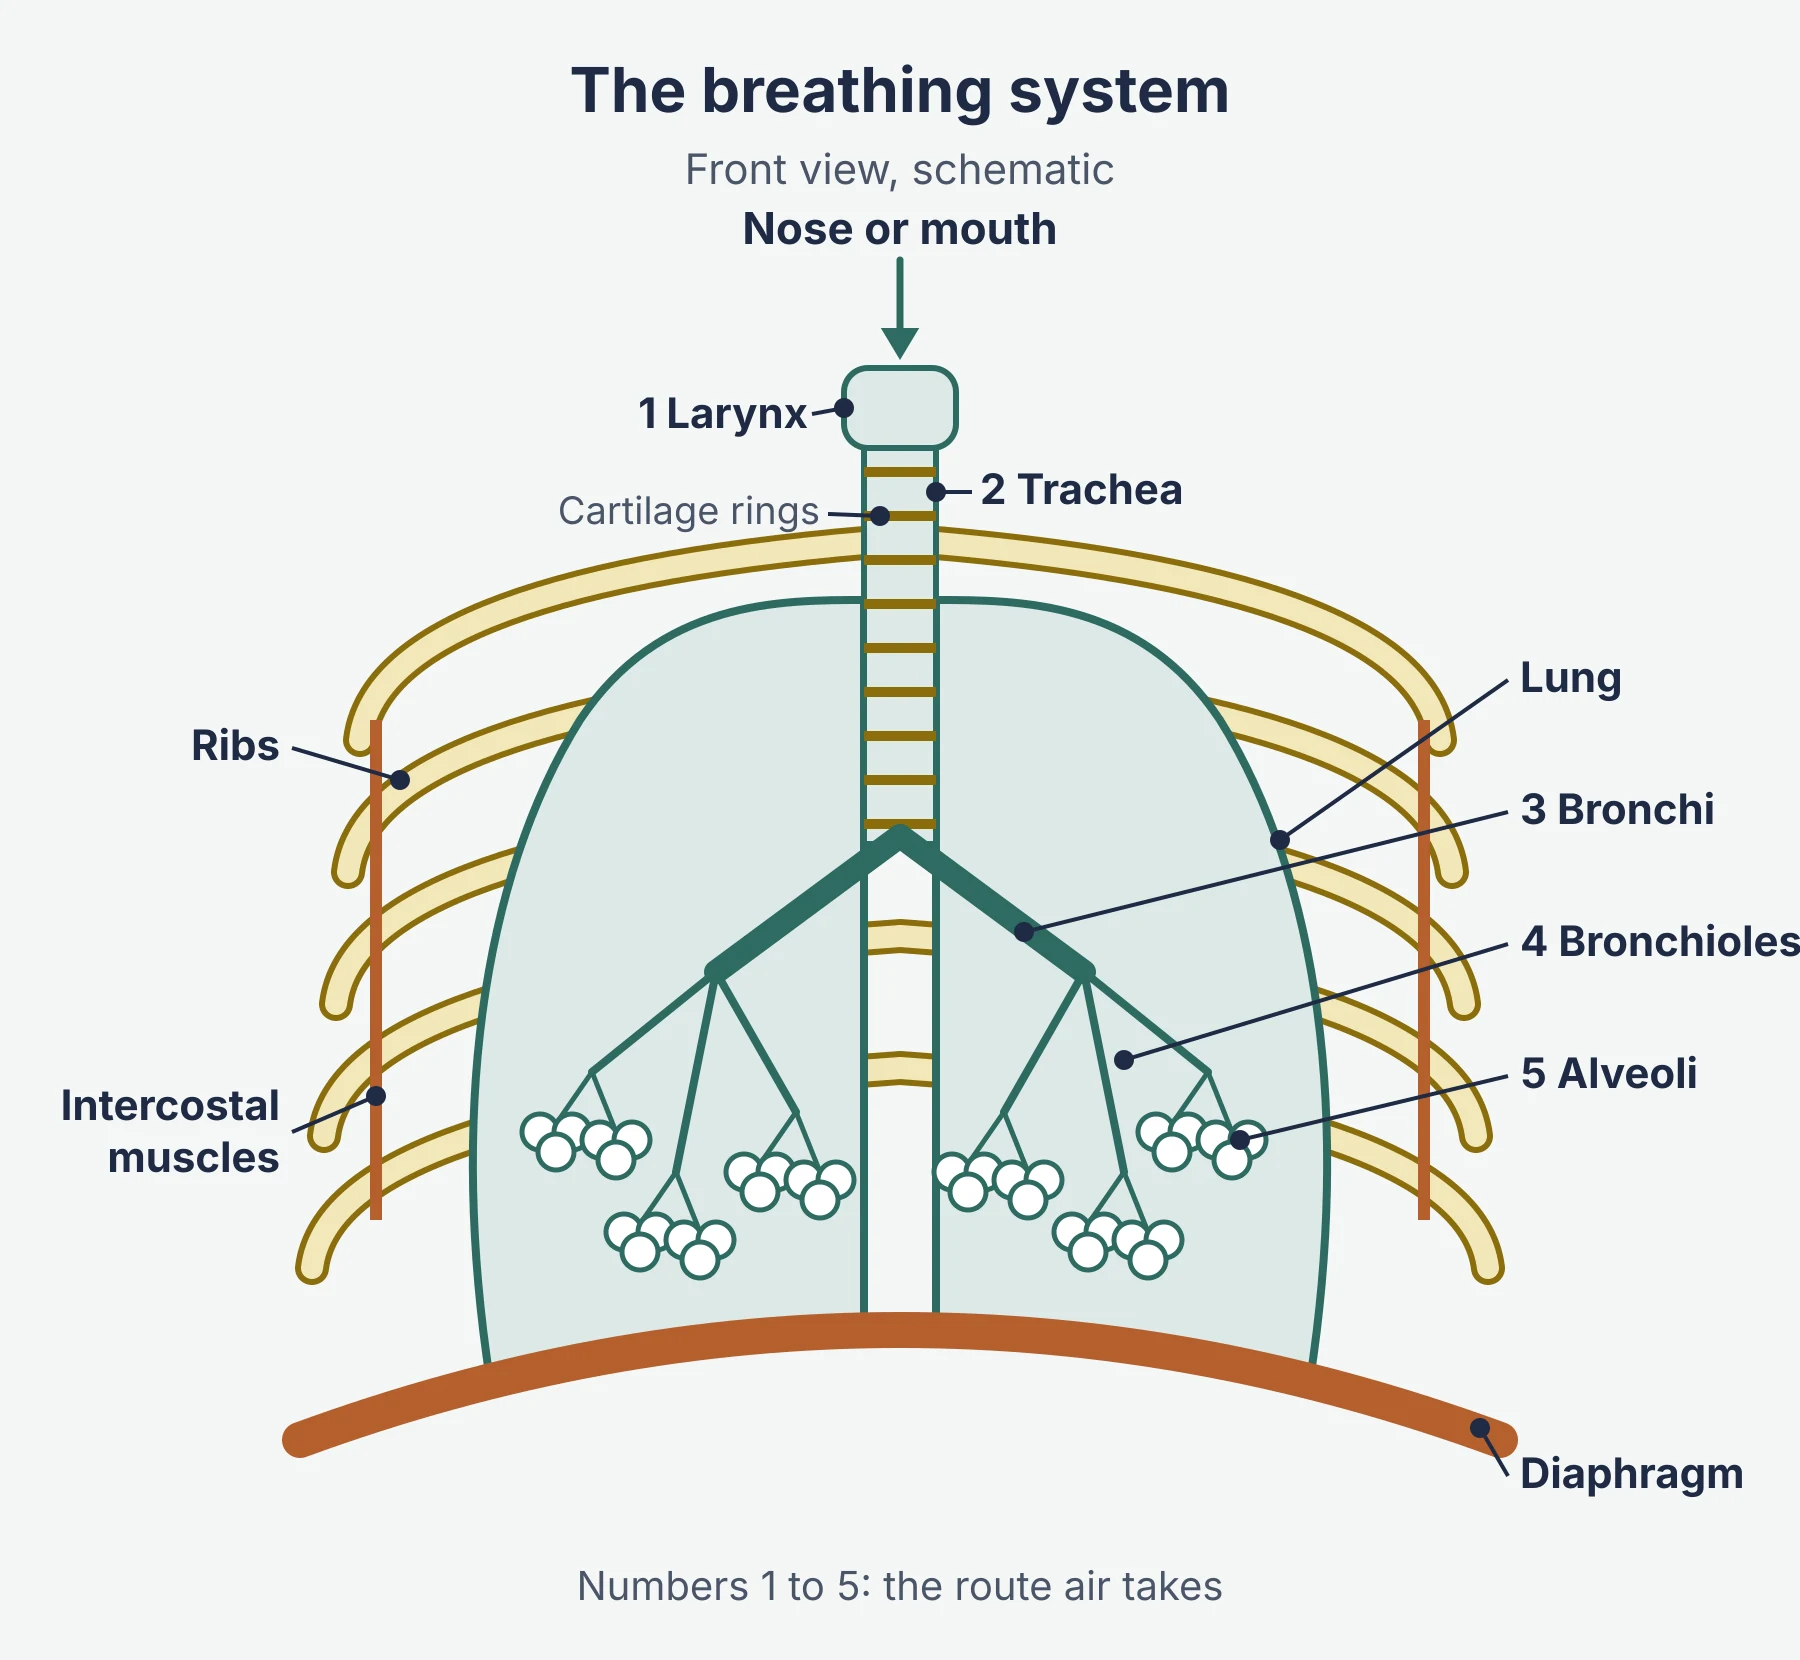
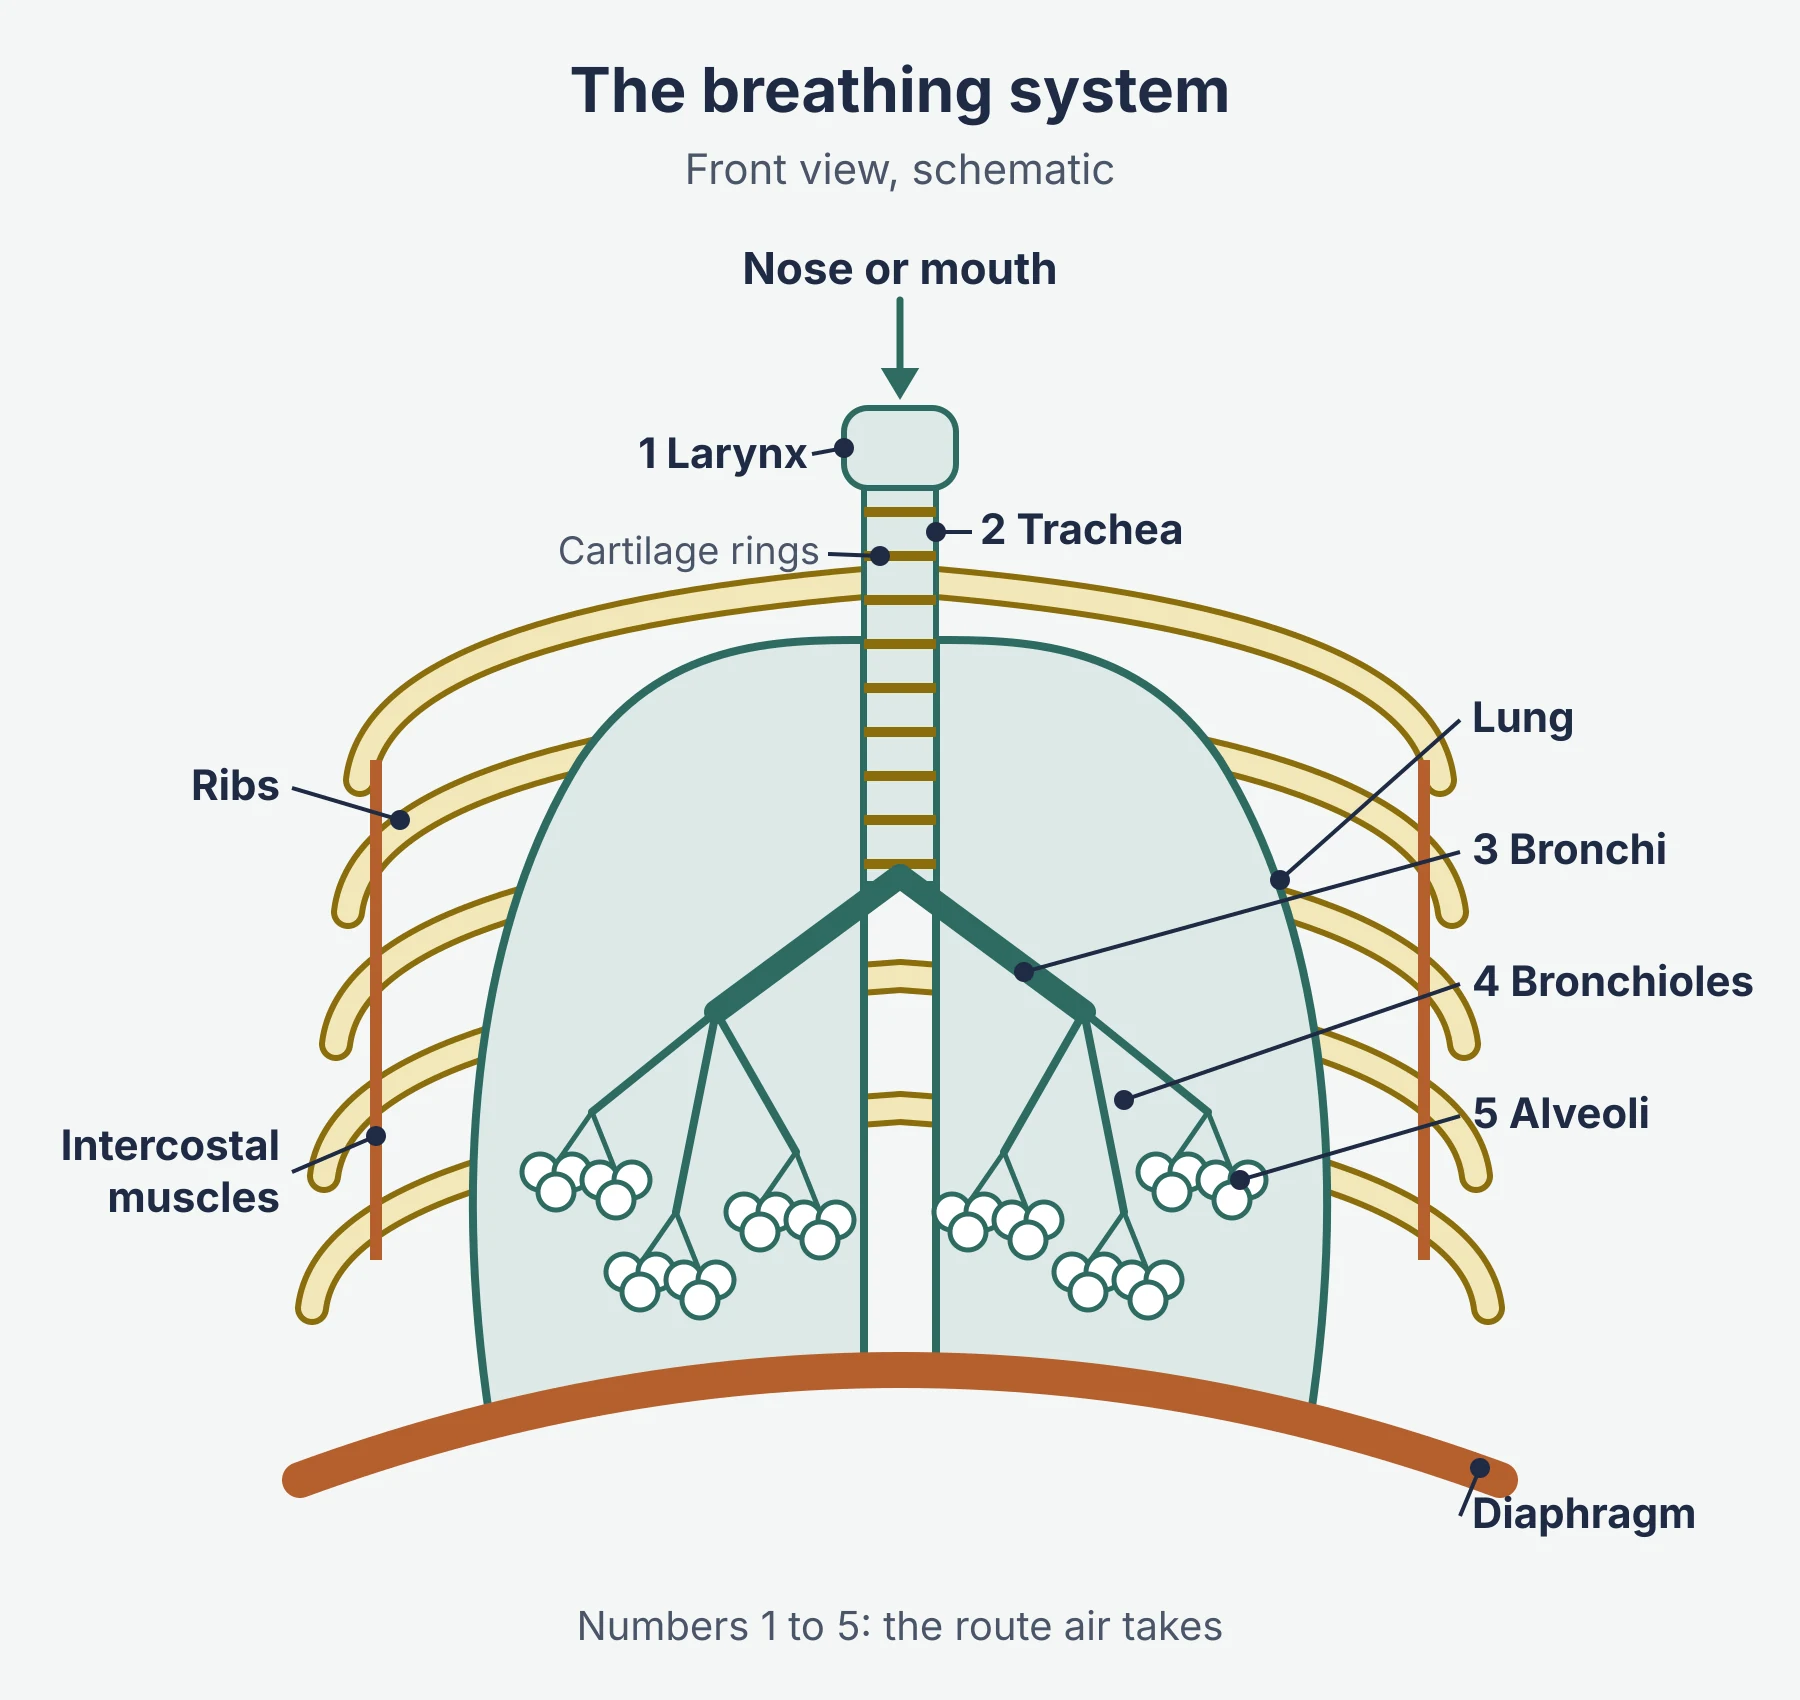
Regeneration: checkpoint of in-progress redraws (local, not pushed)
Claude-Session: https://claude.ai/code/session_01N5L4w3jnueiEEDT7t92Zbd

diff --git a/docs/reports/topic-images/regeneration/sets/biology-gas-exchange-in-humans/figures.html b/docs/reports/topic-images/regeneration/sets/biology-gas-exchange-in-humans/figures.html
@@ -2,7 +2,7 @@
 
 <!-- place after: ## Lungs -->
 <figure class="topic-figure">
-  <img src="https://img.marlbridge.com/biology-gas-exchange-in-humans--01-breathing-system.webp" width="900" height="830" alt="Front view of the chest. Air enters at the nose or mouth and passes in order through the larynx (1), trachea (2), bronchi (3) and bronchioles (4) to the alveoli (5) in the lungs. Ribs, intercostal muscles and the diaphragm surround and sit under the lungs. Also shown: the trachea has rings of cartilage." loading="lazy">
+  <img src="https://img.marlbridge.com/biology-gas-exchange-in-humans--01-breathing-system.webp" width="900" height="850" alt="Front view of the chest. Air enters at the nose or mouth and passes in order through the larynx (1), trachea (2), bronchi (3) and bronchioles (4) to the alveoli (5) in the lungs. Ribs, intercostal muscles and the diaphragm surround and sit under the lungs. Also shown: the trachea has rings of cartilage." loading="lazy">
   <figcaption>Follow the numbers 1 to 5 to trace the route air takes into the lungs.</figcaption>
 </figure>
 
